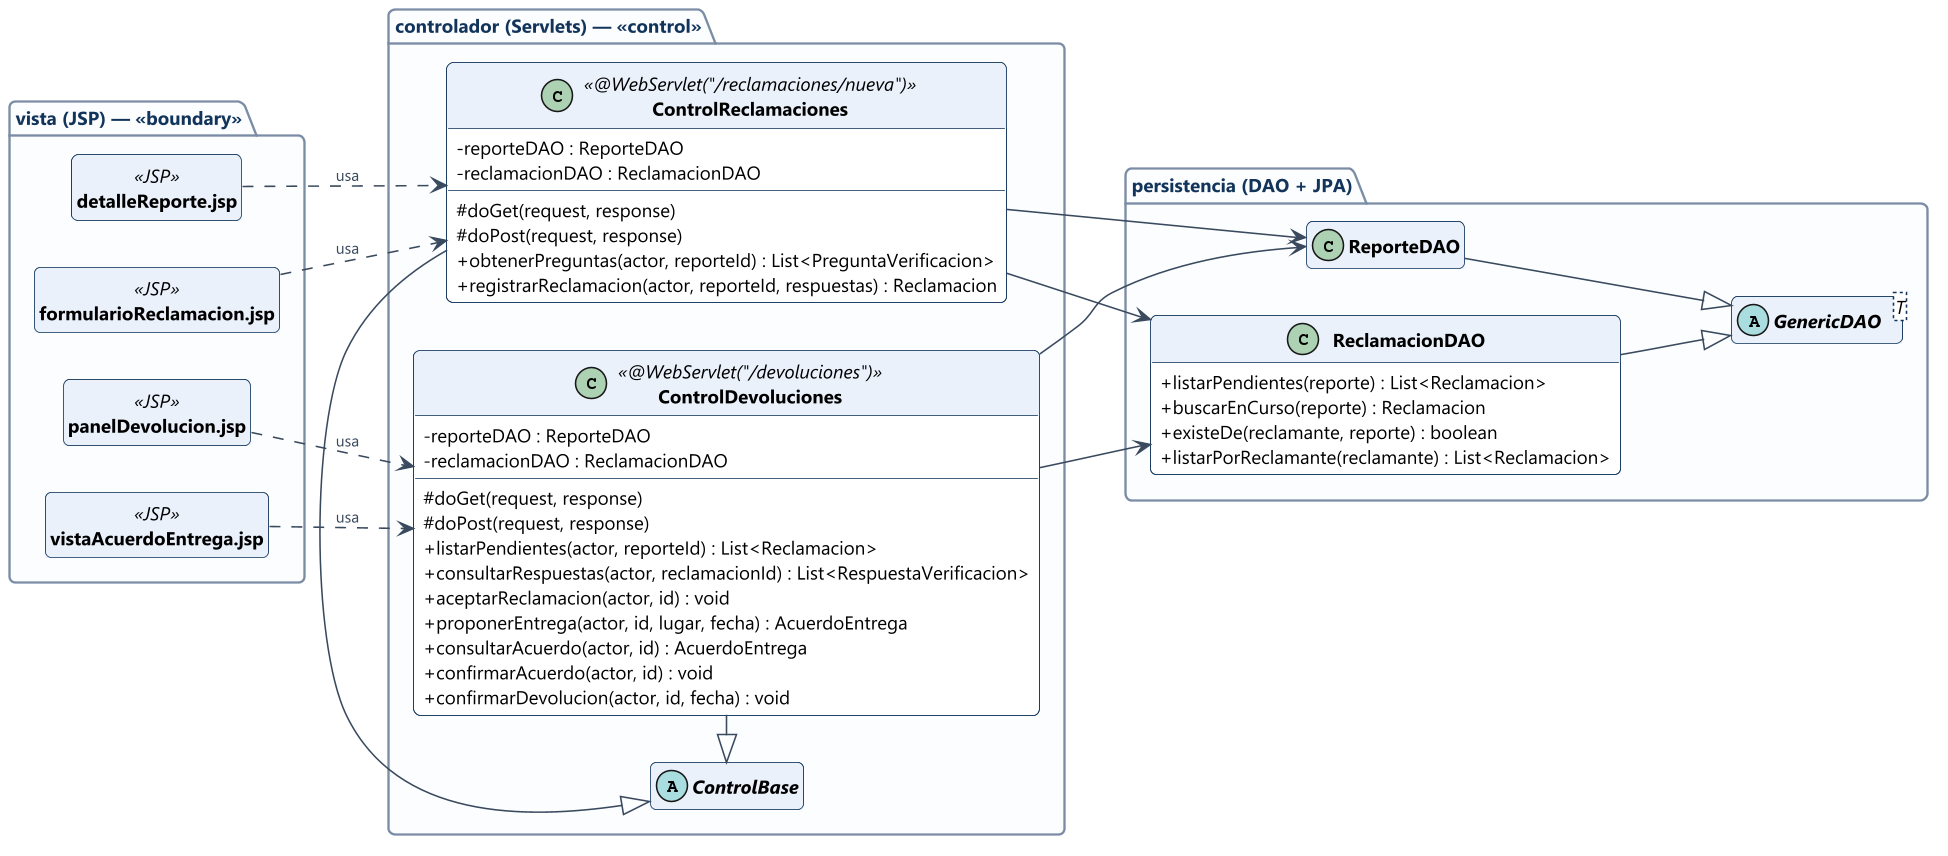
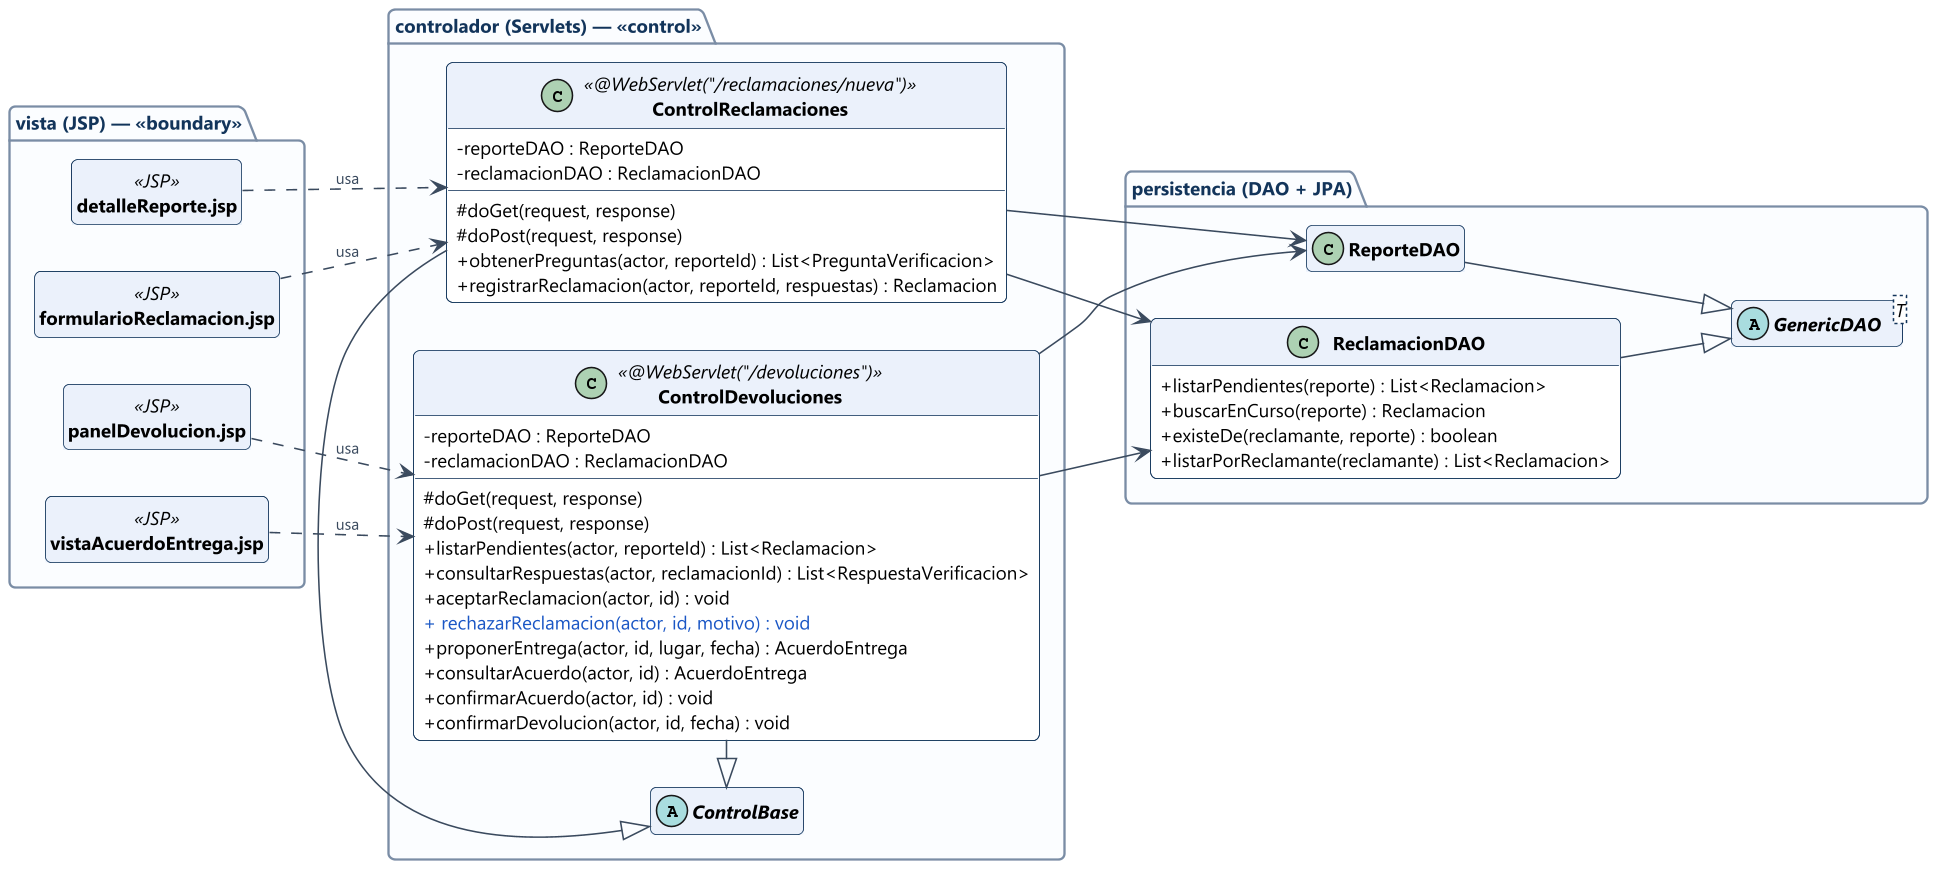
Documenta el Incremento 3 en el README y en los diagramas de clases
El README describe el rechazo de una reclamación y las seis pruebas desarrolladas con TDD. Los diagramas de clases de diseño muestran en azul lo que agrega el incremento: el estado RECHAZADA, los atributos y la operación rechazar() de Reclamacion, y rechazarReclamacion() de ControlDevoluciones.

diff --git a/README.md b/README.md
@@ -12,6 +12,7 @@ Práctica 2 de Metodologías Ágiles (ISWD622, EPN, 2026-B), Grupo 5: desarrollo
 | 1 | CU-02 Consultar y filtrar reportes en el mapa | `ControlConsultaReportes` | `mapaReportes.jsp`, `detalleReporte.jsp` |
 | 2 | CU-03 Reclamar un objeto encontrado | `ControlReclamaciones` | `formularioReclamacion.jsp` |
 | 2 | CU-04 Gestionar devolución del objeto | `ControlDevoluciones` | `panelDevolucion.jsp`, `vistaAcuerdoEntrega.jsp` |
+| 3 | Rechazar una reclamación (Práctica 2, desarrollado con TDD) | `ControlDevoluciones` | `panelDevolucion.jsp`, `inicio.jsp` |
 
 ## Trazabilidad de los modelos al código
 
@@ -36,6 +37,7 @@ Los diagramas de diseño, ya adaptados a Java Web, están en [`docs/modelos`](do
 | Base de datos | H2 embebida (archivo en `~/gr05_1bp2/`) |
 | Servidor | Apache Tomcat 10.1 |
 | Construcción | Maven |
+| Pruebas unitarias | JUnit 5 y Mockito |
 
 No se usan frameworks de aplicación.
 
@@ -51,8 +53,9 @@ src/main/webapp/
 ├── WEB-INF/vistas/   una JSP por clase de interfaz
 ├── css/, js/         estilos y mapa
 └── lib/leaflet/      librería del mapa
+src/test/java/        pruebas unitarias (JUnit 5 y Mockito)
 docs/modelos/         diagramas de clases y de secuencia del diseño
-pruebas/              casos de prueba automatizados del flujo básico (CP-01A a CP-04)
+pruebas/              casos de prueba automatizados en el navegador (CP-01A a CP-05)
 ```
 
 ## Cómo ejecutar
@@ -73,13 +76,28 @@ Para probar el flujo completo se necesitan dos usuarios, por ejemplo en dos nave
 
 ## Casos de prueba
 
-`pruebas/casos-de-prueba.js` ejecuta en un navegador los cinco casos de prueba del flujo básico definidos en la Tarea 1, con dos usuarios en sesiones separadas, y comprueba el resultado esperado de cada paso. Con la aplicación en ejecución y la base de datos vacía:
+`pruebas/casos-de-prueba.js` ejecuta en un navegador los cinco casos de prueba del flujo básico definidos en la Tarea 1 y el caso CP-05 del Incremento 3 (rechazar una reclamación), con dos usuarios en sesiones separadas, y comprueba el resultado esperado de cada paso. Con la aplicación en ejecución y la base de datos vacía:
 
 ```bash
 cd pruebas
 npm install puppeteer-core
 node casos-de-prueba.js capturas
 ```
+
+## Incremento 3: rechazar una reclamación (TDD)
+
+Quien registró un objeto encontrado puede rechazar una reclamación pendiente indicando el motivo. La reclamación queda RECHAZADA, el reclamante ve el motivo en «Mis reclamaciones» y el reporte sigue activo para otras reclamaciones.
+
+Se desarrolló con TDD: cada prueba tiene tres commits, `TDD n · Rojo`, `TDD n · Verde` y `TDD n · Refactor`.
+
+| N.º | Tipo | Prueba | Qué comprueba |
+|---|---|---|---|
+| 1 | Unitaria | `ReclamacionTest` | Al rechazar una reclamación pendiente, queda RECHAZADA |
+| 2 | Unitaria | `ReclamacionTest` | Se guardan el motivo, sin espacios sobrantes, y la fecha del rechazo |
+| 3 | Unitaria | `ReclamacionTest` | Una reclamación ya aceptada no se puede rechazar |
+| 4 | Unitaria | `ReclamacionTest` | Un motivo de más de 200 caracteres no se acepta |
+| 5 | Con mocks (Mockito) | `ControlDevolucionesTest` | El control guarda el rechazo con un DAO simulado, sin base de datos |
+| 6 | Con parámetros | `ReclamacionTest` | Un motivo vacío o en blanco no se acepta (un caso por fila) |
 
 ## Origen del código
 
